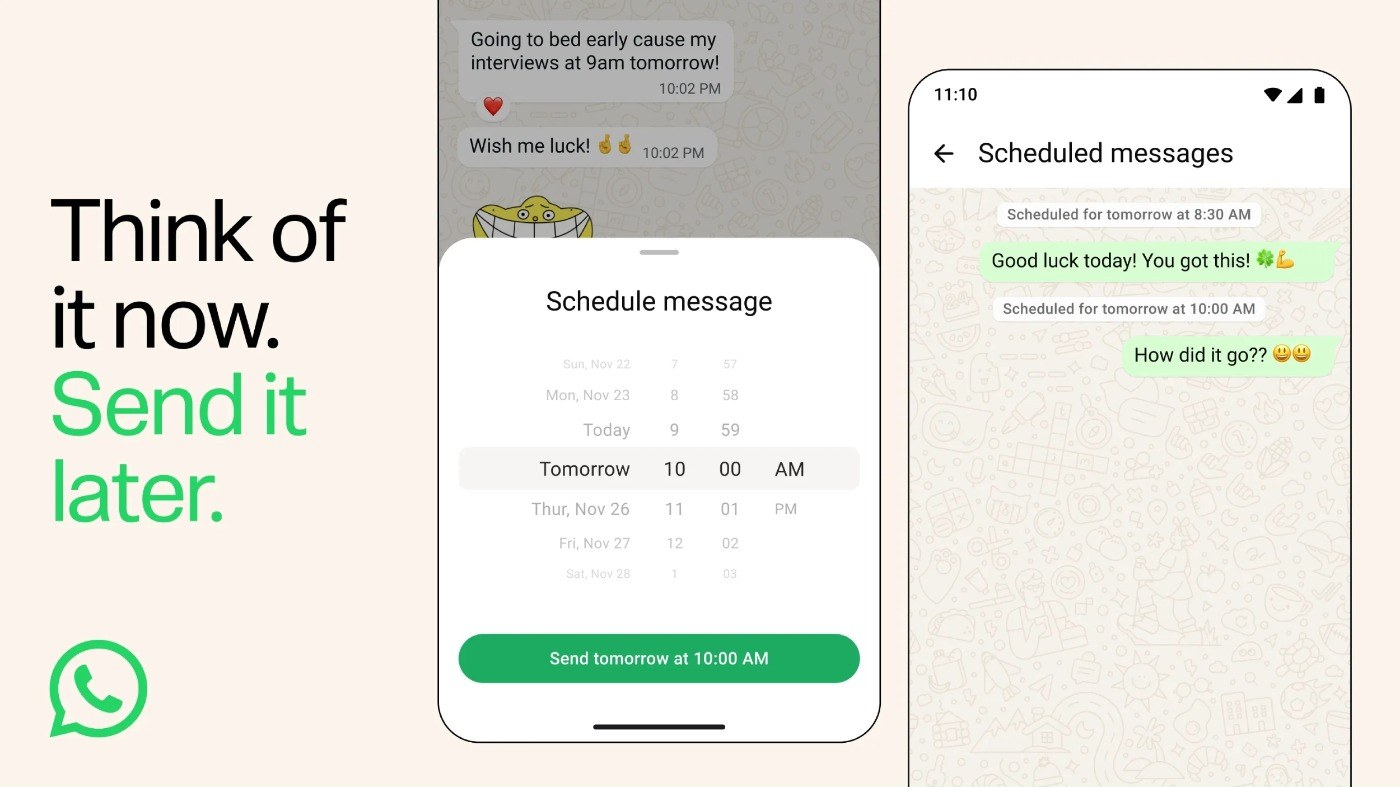
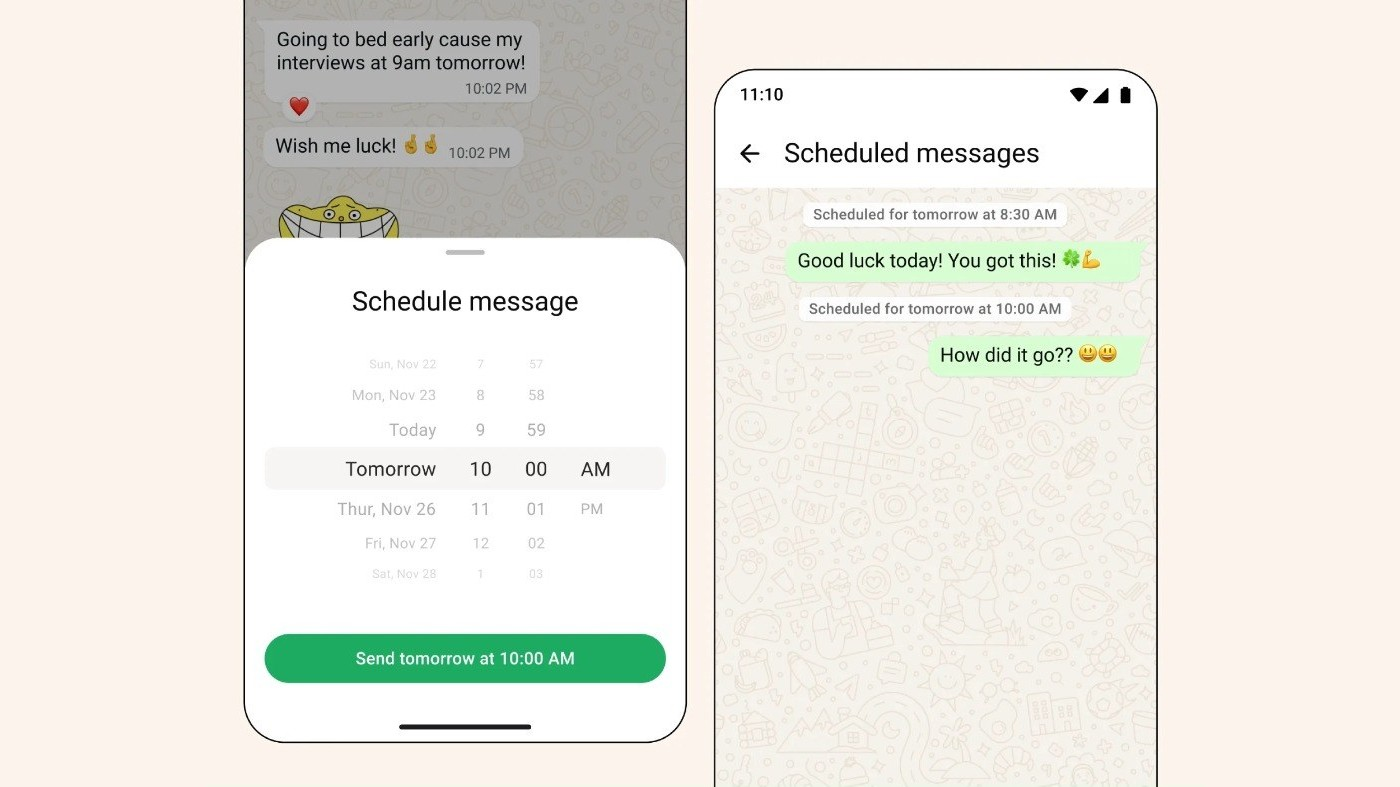
WhatsApp: centre the phones in the thumbnail so no words are cut; full announcement image moved into the article
Claude-Session: https://claude.ai/code/session_01WDEkrNAFXTmDkH4xqWGtjY

diff --git a/whatsapp-scheduled-messages.html b/whatsapp-scheduled-messages.html
@@ -773,6 +773,10 @@ a.media:hover { text-decoration: none; }
         <p>WABetaInfo also spotted sticker messages with sound being tested this week, where an animated sticker plays a short clip when tapped, and a separate Stickers app in the works for sharing packs publicly.</p>
       </div>
       <figure class="article__post-after">
+        <img src="images/whatsapp-scheduled-messages-full.jpg" alt="WhatsApp’s full announcement image: Think of it now. Send it later. in black and green beside the WhatsApp logo, with the schedule picker and the scheduled messages list on two phones." loading="lazy" style="display:block;width:100%;max-width:none;height:auto;margin:0 auto">
+        <figcaption class="mono" style="max-width:none">WhatsApp’s announcement image: “Think of it now. Send it later.” Image: <a href="https://blog.whatsapp.com/say-it-at-the-right-time-with-scheduled-messages" rel="noopener">WhatsApp</a> via <a href="https://wabetainfo.com/whatsapp-launches-scheduled-messages-on-android-and-ios/" rel="noopener">WABetaInfo</a></figcaption>
+      </figure>
+      <figure class="article__post-after">
         <img src="images/whatsapp-sound-stickers.jpg" alt="Four Android screens from WhatsApp beta: a sticker editor with a sound button, an Add sound sheet, a voice recorder for the sticker, and a chat with a sound sticker sent." loading="lazy" style="display:block;width:100%;max-width:none;height:auto;margin:0 auto">
         <figcaption class="mono" style="max-width:none">Sound stickers in WhatsApp beta for Android, spotted the same week. Image: <a href="https://wabetainfo.com/whatsapp-is-rolling-out-new-sound-sticker-messages-on-android/" rel="noopener">WABetaInfo</a></figcaption>
       </figure>
